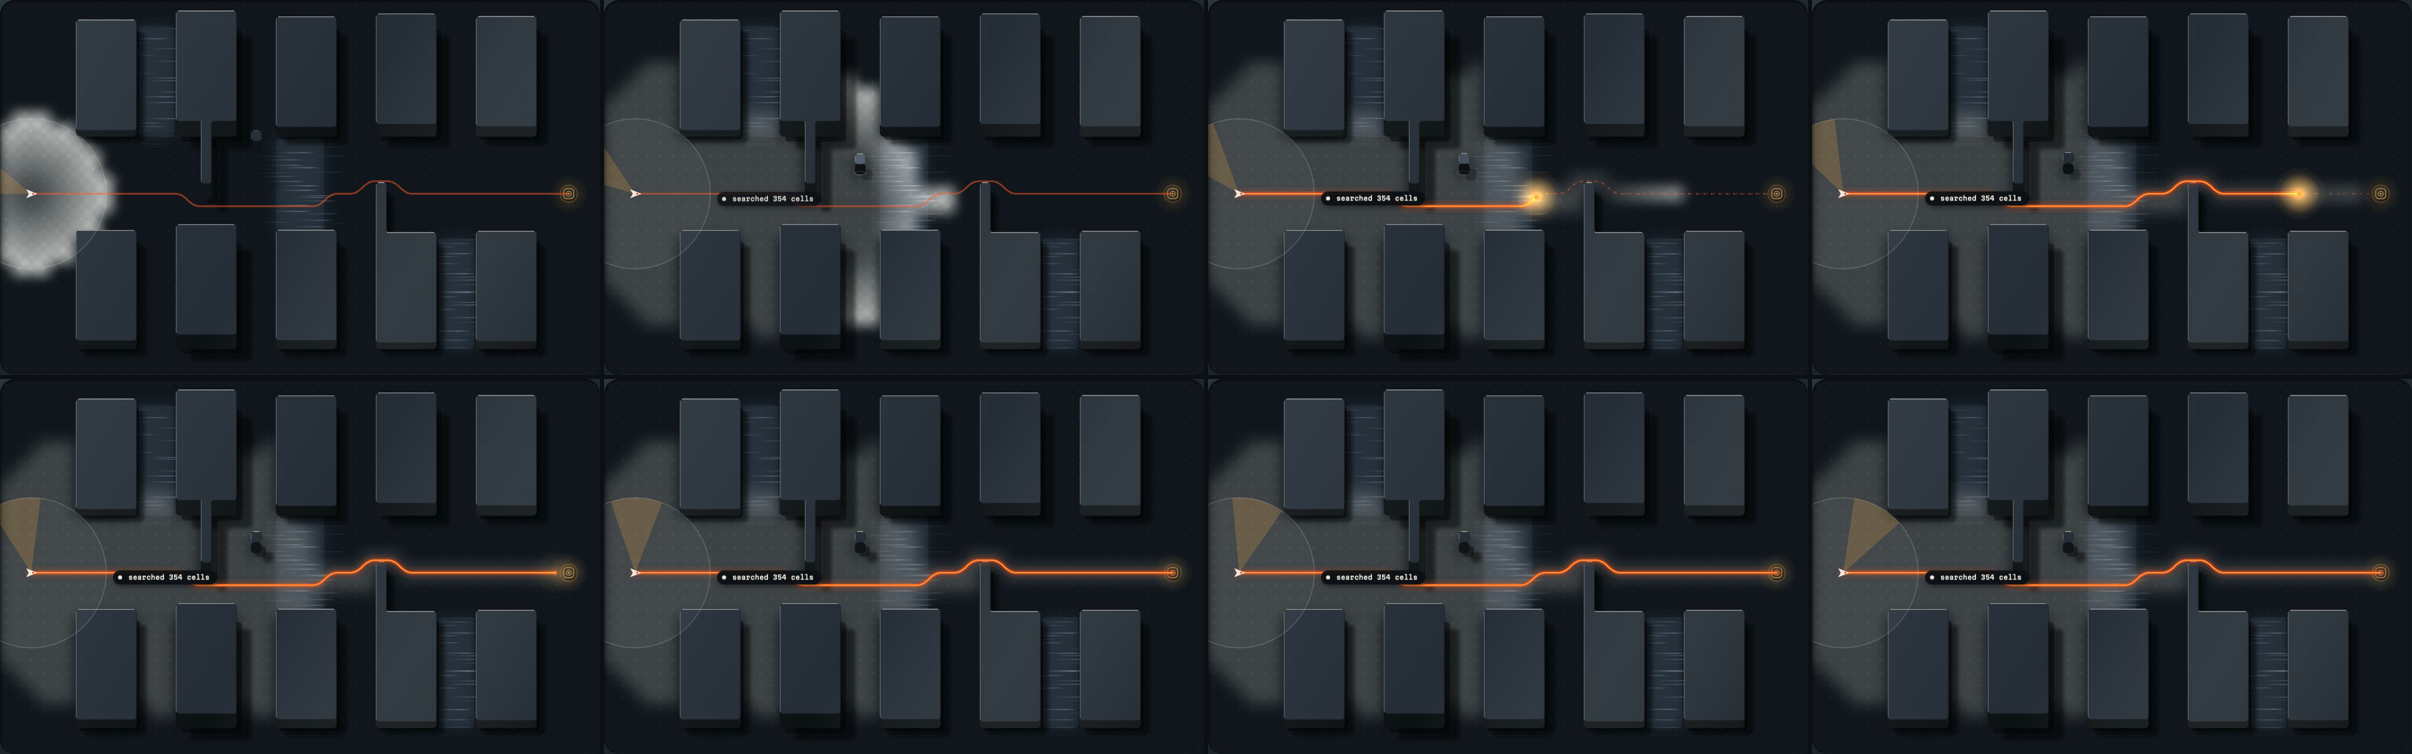
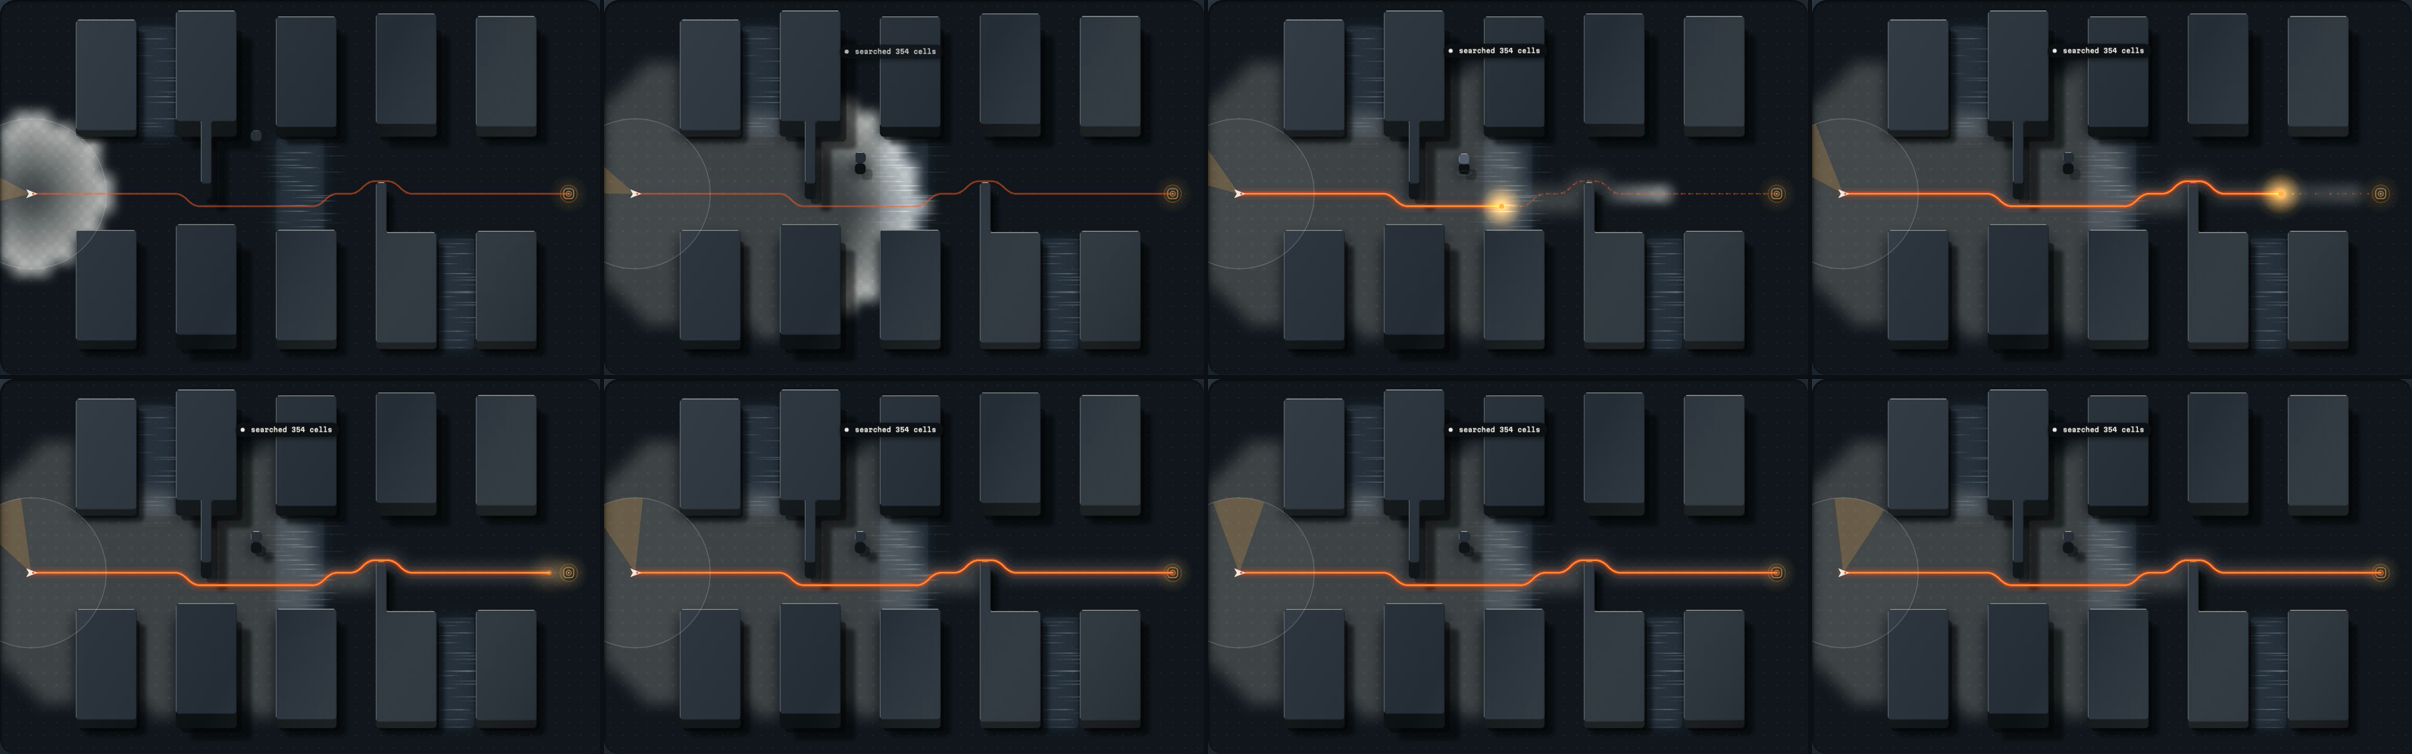
feat: chip placement clears route, drone and goal; compact chip on small maps
Pure candidate-based placement (above/below/right/left of the flood bbox, then
nearest corners). Maps under 500 px use a smaller chip with compact text.
Retaken contact sheets and 1440/390 stills.

diff --git a/web/src/render/chipPlacement.ts b/web/src/render/chipPlacement.ts
@@ -1,0 +1,123 @@
+/**
+ * Where the replan chip goes. Pure geometry in CSS px, so the choice can be unit tested.
+ *
+ * The chip pins next to the flood but must never cover the new route, the drone or the goal
+ * pad. Candidates are tried in a fixed order (above, below, right, left of the flood's bounding
+ * box, then the map corners nearest the flood first) and the first one that clears wins.
+ */
+
+export interface Rect {
+  x: number;
+  y: number;
+  w: number;
+  h: number;
+}
+
+export type Anchor = 'above' | 'below' | 'right' | 'left' | 'corner' | 'fallback';
+
+export interface PlaceInput {
+  /** Size of the chip's visible pill. */
+  box: { w: number; h: number };
+  map: { w: number; h: number };
+  /** Minimum distance from the map edge. */
+  margin: number;
+  /** Distance kept from the flood's bounding box. */
+  gap: number;
+  /** Bounding box of the flooded cells. */
+  flood: Rect;
+  /** Route polyline `[x0, y0, x1, y1, ...]` and its point count. */
+  route: Float32Array;
+  routeN: number;
+  /** Clearance kept around the route line. */
+  routePad: number;
+  /** Rects to stay clear of: the drone and the goal pad. */
+  avoid: Rect[];
+}
+
+export interface Placement {
+  x: number;
+  y: number;
+  anchor: Anchor;
+}
+
+export function rectsOverlap(a: Rect, b: Rect): boolean {
+  return a.x < b.x + b.w && b.x < a.x + a.w && a.y < b.y + b.h && b.y < a.y + a.h;
+}
+
+/** True when any segment of the polyline passes within `pad` of the rect. */
+export function rectHitsPolyline(r: Rect, pts: Float32Array, n: number, pad: number): boolean {
+  const x0 = r.x - pad;
+  const y0 = r.y - pad;
+  const x1 = r.x + r.w + pad;
+  const y1 = r.y + r.h + pad;
+  if (n === 1) return pts[0] >= x0 && pts[0] <= x1 && pts[1] >= y0 && pts[1] <= y1;
+  for (let i = 0; i + 1 < n; i++) {
+    if (segmentHitsBox(pts[2 * i], pts[2 * i + 1], pts[2 * i + 2], pts[2 * i + 3], x0, y0, x1, y1)) return true;
+  }
+  return false;
+}
+
+/** Liang-Barsky clip: does the segment touch the box? */
+function segmentHitsBox(ax: number, ay: number, bx: number, by: number, x0: number, y0: number, x1: number, y1: number): boolean {
+  const dx = bx - ax;
+  const dy = by - ay;
+  let t0 = 0;
+  let t1 = 1;
+  const p = [-dx, dx, -dy, dy];
+  const q = [ax - x0, x1 - ax, ay - y0, y1 - ay];
+  for (let i = 0; i < 4; i++) {
+    if (p[i] === 0) {
+      if (q[i] < 0) return false;
+    } else {
+      const t = q[i] / p[i];
+      if (p[i] < 0) { if (t > t1) return false; if (t > t0) t0 = t; }
+      else { if (t < t0) return false; if (t < t1) t1 = t; }
+    }
+  }
+  return true;
+}
+
+function violations(r: Rect, i: PlaceInput): number {
+  let n = rectHitsPolyline(r, i.route, i.routeN, i.routePad) ? 1 : 0;
+  for (const a of i.avoid) if (rectsOverlap(r, a)) n++;
+  return n;
+}
+
+export function placeChip(i: PlaceInput): Placement {
+  const { box, map, margin, gap, flood } = i;
+  const clampX = (x: number) => Math.min(Math.max(margin, x), Math.max(margin, map.w - margin - box.w));
+  const clampY = (y: number) => Math.min(Math.max(margin, y), Math.max(margin, map.h - margin - box.h));
+  const cx = flood.x + flood.w / 2;
+  const cy = flood.y + flood.h / 2;
+  const cands: { x: number; y: number; anchor: Anchor }[] = [
+    { x: cx - box.w / 2, y: flood.y - gap - box.h, anchor: 'above' },
+    { x: cx - box.w / 2, y: flood.y + flood.h + gap, anchor: 'below' },
+    { x: flood.x + flood.w + gap, y: cy - box.h / 2, anchor: 'right' },
+    { x: flood.x - gap - box.w, y: cy - box.h / 2, anchor: 'left' },
+  ];
+  const corners = [
+    { x: margin, y: margin },
+    { x: map.w - margin - box.w, y: margin },
+    { x: margin, y: map.h - margin - box.h },
+    { x: map.w - margin - box.w, y: map.h - margin - box.h },
+  ].sort((a, b) => Math.hypot(a.x + box.w / 2 - cx, a.y + box.h / 2 - cy) - Math.hypot(b.x + box.w / 2 - cx, b.y + box.h / 2 - cy));
+  for (const c of corners) cands.push({ ...c, anchor: 'corner' });
+
+  let best: Placement | null = null;
+  let bestScore = Infinity;
+  for (const c of cands) {
+    const x = clampX(c.x);
+    const y = clampY(c.y);
+    const score = violations({ x, y, w: box.w, h: box.h }, i);
+    if (score === 0) return { x, y, anchor: c.anchor };
+    if (score < bestScore) { bestScore = score; best = { x, y, anchor: 'fallback' }; }
+  }
+  return best ?? { x: clampX(margin), y: clampY(margin), anchor: 'fallback' };
+}
+
+/** Chip size for a map `mapW` CSS px wide: full on a roomy map, compact and smaller on a phone. */
+export function chipLayout(mapW: number): { compact: boolean; font: number; padX: number; h: number; dotR: number } {
+  if (mapW >= 500) return { compact: false, font: 11, padX: 12, h: 24, dotR: 3.5 };
+  const font = 9 + Math.min(1, Math.max(0, (mapW - 250) / 250)) * 1.5;
+  return { compact: true, font, padX: 7, h: 18, dotR: 2.5 };
+}

diff --git a/web/src/render/searchLayer.ts b/web/src/render/searchLayer.ts
@@ -30,7 +30,8 @@ import type { Simulation } from '../engine/simulation';
 import { FloodOrder, frontCount } from './floodOrder';
 import { parseHex } from './mapPalette';
 import type { DrawOpts, RenderView } from './renderTypes';
-import { FINISHED, TOTAL_MS, chipText, replanPhases, type Phases } from './replanTimeline';
+import { chipLayout, placeChip as placeChipBox, type Rect } from './chipPlacement';
+import { FINISHED, TOTAL_MS, chipText, chipTextCompact, replanPhases, type Phases } from './replanTimeline';
 import { arcLengths, cellCentres, pointAt, smoothRoute, subCurveEnd, type Curve } from './routeCurve';
 
 /** Radius (in cells) of the resting-glow sprite and of the brighter rim sprite. */
@@ -341,15 +342,17 @@ class SearchShow {
     this.chip = null;
     if (!ev || !this.animated || this.flood.count === 0) return;
     const { cell, dpr, pal, w } = v;
-    const text = chipText(ev.mode, ev.incremental, ev.found, this.flood.count);
-    const font = '500 11px "Martian Mono", ui-monospace, Menlo, monospace';
+    const mapW = v.w * cell;
+    const mapH = v.h * cell;
+    const lay = chipLayout(mapW);
+    const text = (lay.compact ? chipTextCompact : chipText)(ev.mode, ev.incremental, ev.found, this.flood.count);
+    const font = `500 ${lay.font}px "Martian Mono", ui-monospace, Menlo, monospace`;
     const probe = makeCanvas(2, 2).getContext('2d')!;
     probe.font = font;
     const tw = Math.ceil(probe.measureText(text).width);
-    const padX = 12;
-    const dotR = 3.5;
-    const h = 24;
-    const wCss = tw + padX * 2 + dotR * 2 + 7;
+    const { padX, dotR, h } = lay;
+    const gapDot = lay.compact ? 5 : 7;
+    const wCss = tw + padX * 2 + dotR * 2 + gapDot;
     const pad = 10;
     const c = makeCanvas((wCss + pad * 2) * dpr, (h + pad * 2) * dpr);
     const g = c.getContext('2d')!;
@@ -370,31 +373,49 @@ class SearchShow {
     g.font = font;
     g.textBaseline = 'middle';
     g.fillStyle = pal.drone;
-    g.fillText(text, pad + padX + dotR * 2 + 7, pad + h / 2 + 0.5);
+    g.fillText(text, pad + padX + dotR * 2 + gapDot, pad + h / 2 + 0.5);
     this.chip = c;
     this.chipW = wCss + pad * 2;
     this.chipH = h + pad * 2;
-    // Pin the chip just outside the flood's bounding box (above it, or below when the top is cramped),
-    // horizontally centred on the flood centroid, so it never covers the repair itself.
+    // Bounding box of the flood, in px.
     const f = this.flood;
-    let sx = 0;
+    let minX = Infinity;
+    let maxX = -Infinity;
     let minY = Infinity;
     let maxY = -Infinity;
     for (let k = 0; k < f.count; k++) {
       const cc = f.order[k];
+      const x = cc % w;
       const y = (cc / w) | 0;
-      sx += (cc % w) + 0.5;
+      if (x < minX) minX = x;
+      if (x > maxX) maxX = x;
       if (y < minY) minY = y;
       if (y > maxY) maxY = y;
     }
-    const mapW = v.w * cell;
-    const mapH = v.h * cell;
-    const gap = 8;
-    let y = minY * cell - h - gap;
-    if (y < 4) y = (maxY + 1) * cell + gap;
-    y = Math.min(y, mapH - h - 4);
-    this.chipX = Math.min(Math.max(4 - pad, (sx / f.count) * cell - this.chipW / 2), mapW - this.chipW + pad - 4);
-    this.chipY = Math.max(4, y) - pad;
+    // The drawn route, the drone (route start) and the goal pad (route end) stay uncovered.
+    const cur = this.cur;
+    const rn = cur ? cur.n : 0;
+    const route = new Float32Array(2 * rn);
+    for (let i = 0; i < 2 * rn; i++) route[i] = (cur as Curve).pts[i] * cell;
+    const avoid: Rect[] = [];
+    if (rn > 0) {
+      const r = cell * 1.1;
+      avoid.push({ x: route[0] - r, y: route[1] - r, w: 2 * r, h: 2 * r });
+      avoid.push({ x: route[2 * rn - 2] - r, y: route[2 * rn - 1] - r, w: 2 * r, h: 2 * r });
+    }
+    const p = placeChipBox({
+      box: { w: wCss, h },
+      map: { w: mapW, h: mapH },
+      margin: lay.compact ? 4 : 8,
+      gap: 8,
+      flood: { x: minX * cell, y: minY * cell, w: (maxX - minX + 1) * cell, h: (maxY - minY + 1) * cell },
+      route,
+      routeN: rn,
+      routePad: Math.max(6, cell * 0.6),
+      avoid,
+    });
+    this.chipX = p.x - pad;
+    this.chipY = p.y - pad;
   }
 
   drawChip(ctx: CanvasRenderingContext2D, v: RenderView): void {

diff --git a/web/src/render/replanTimeline.ts b/web/src/render/replanTimeline.ts
@@ -79,6 +79,11 @@ export function replanPhases(elapsedMs: number, reduced: boolean): Phases {
  * from-scratch call (the first, or after the goal moved or the map was cleared) says
  * "searched", because that is what it did.
  */
+export function chipTextCompact(mode: PlanMode, incremental: boolean, found: boolean, cells: number): string {
+  const text = `${cells} ${mode === 'dstar' && incremental ? 'repaired' : 'searched'}`;
+  return found ? text : `${text}, no route`;
+}
+
 export function chipText(mode: PlanMode, incremental: boolean, found: boolean, cells: number): string {
   const verb = mode === 'dstar' && incremental ? 'repaired' : 'searched';
   const text = `${verb} ${cells} ${cells === 1 ? 'cell' : 'cells'}`;

diff --git a/web/src/render/chipPlacement.test.ts b/web/src/render/chipPlacement.test.ts
@@ -41,9 +41,9 @@ describe('rectsOverlap / rectHitsPolyline', () => {
 
 describe('placeChip', () => {
   it('uses "above the flood" when it clears the route', () => {
-    const r = placeChip(base({ flood: { x: 400, y: 340, w: 80, h: 60 } }));
+    const r = placeChip(base({ flood: { x: 400, y: 380, w: 80, h: 60 } }));
     expect(r.anchor).toBe('above');
-    expect(r.y + BOX.h).toBeLessThanOrEqual(340);
+    expect(r.y + BOX.h).toBeLessThanOrEqual(380);
   });
 
   it('never overlaps the route, in any anchor', () => {

diff --git a/docs/reports/ui-search-show.md b/docs/reports/ui-search-show.md
@@ -58,10 +58,12 @@ Times in ms. Frame time is locked to the 60 Hz display (16.7 ms); per-frame JS w
 2. Round 2. The D* repair was invisible (2 cells at low alpha, and the chip sat on top of it). Ember sprite 1.6x larger, hotter mix toward orange (0.8), alpha 0.8, and the chip now pins just outside the flood's bounding box instead of at its centroid. The repair is now a clear ember spot.
 3. Tooling caught two of my own mistakes: a contact sheet was stale because `ffmpeg` was cut by `| head`, and the image viewer cached by filename. Re-rendered under new names and verified timestamps.
 
+4. Review round 1 (manager). The chip could sit on the orange route, and on a 390 px map it was about 45% of the map width. Chip placement is now a pure function (`render/chipPlacement.ts`, unit tested): it tries above, below, right and left of the flood bbox, then the map corners nearest the flood, and takes the first box that clears the smoothed route (with clearance), the drone and the goal pad and stays inside the map margin; if nothing clears it takes the least-overlapping candidate. On maps under 500 px wide the chip uses a smaller font (9 to 10.5 px) and padding and a compact text ("354 searched", "2 repaired"; same honest verb and count). The 390 still is retaken scrolled to the top so the header is not clipped, and both contact sheets, after-1440 and after-390 were retaken.
+
 ## Still weak
 
 - The D* ember spot is honest but small. For a 2-cell repair it is a subtle moment; it relies on the contrast with A*.
-- Chip placement is "above the flood bbox"; on a large flood near the top edge it falls below and can overlap a building face.
+- The chip avoids the route, drone and goal pad, but not buildings or the flood itself, so on a big A* flood it usually lands on a building face in the nearest open corner of the box search. If every candidate is blocked it falls back to the least-bad one.
 - The wavefront's sprite stamping shows faint dither/pixel texture at its leading edge for the first ~100 ms of a big A* flood.
 - Reduced-motion still shows the chip (it is information, not motion); some may prefer it hidden.
 - `incremental` is a JS-side best effort (same goal as previous D* call since last clear/import); the engine does not expose it.
